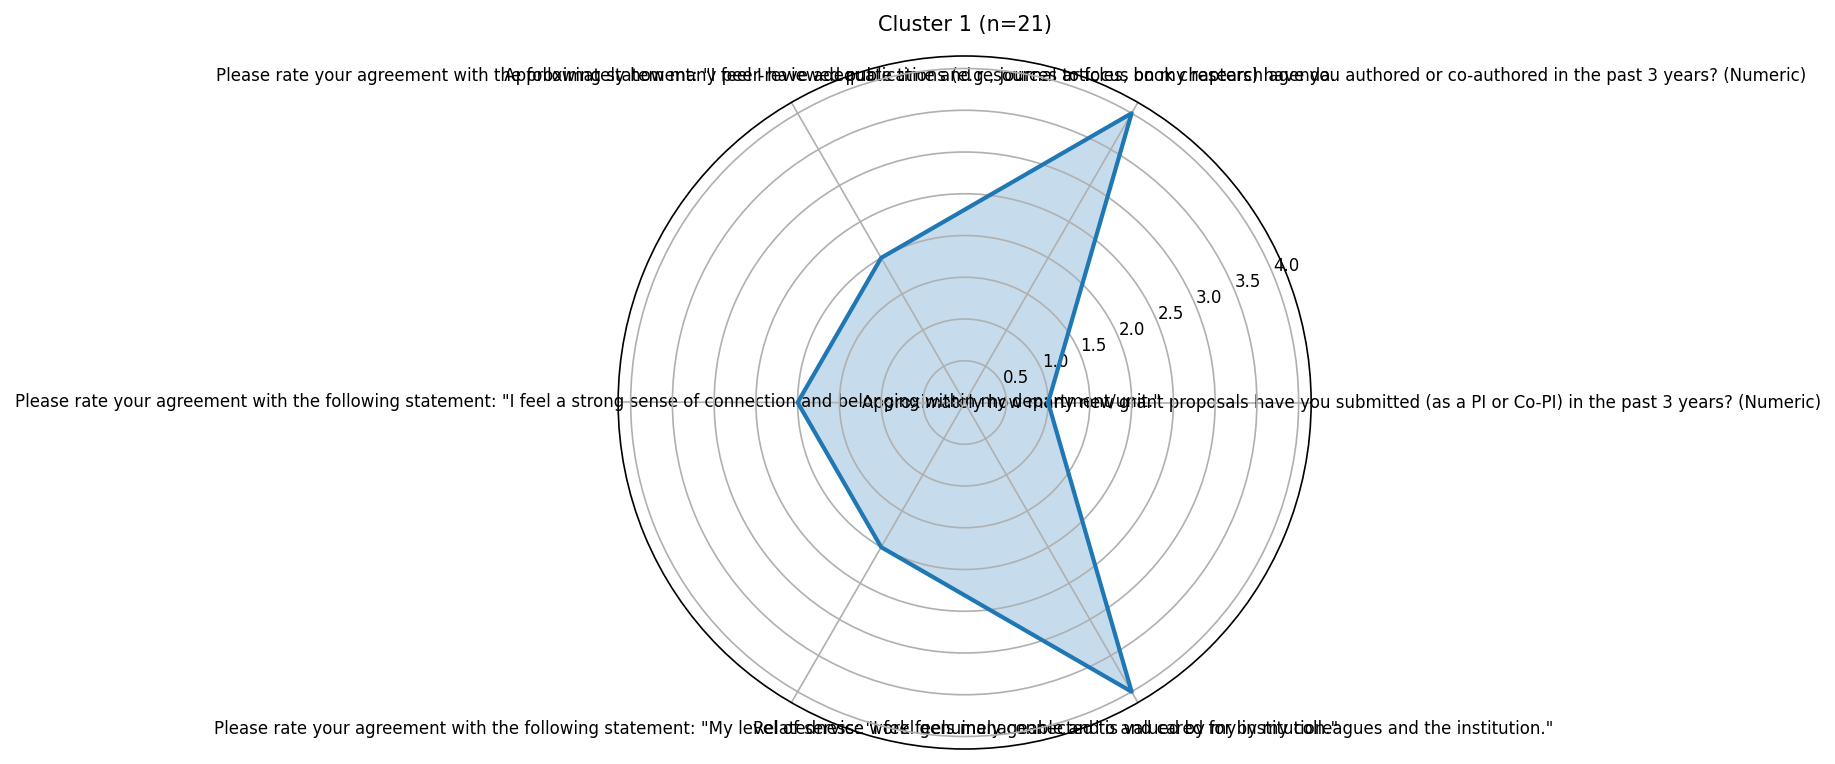
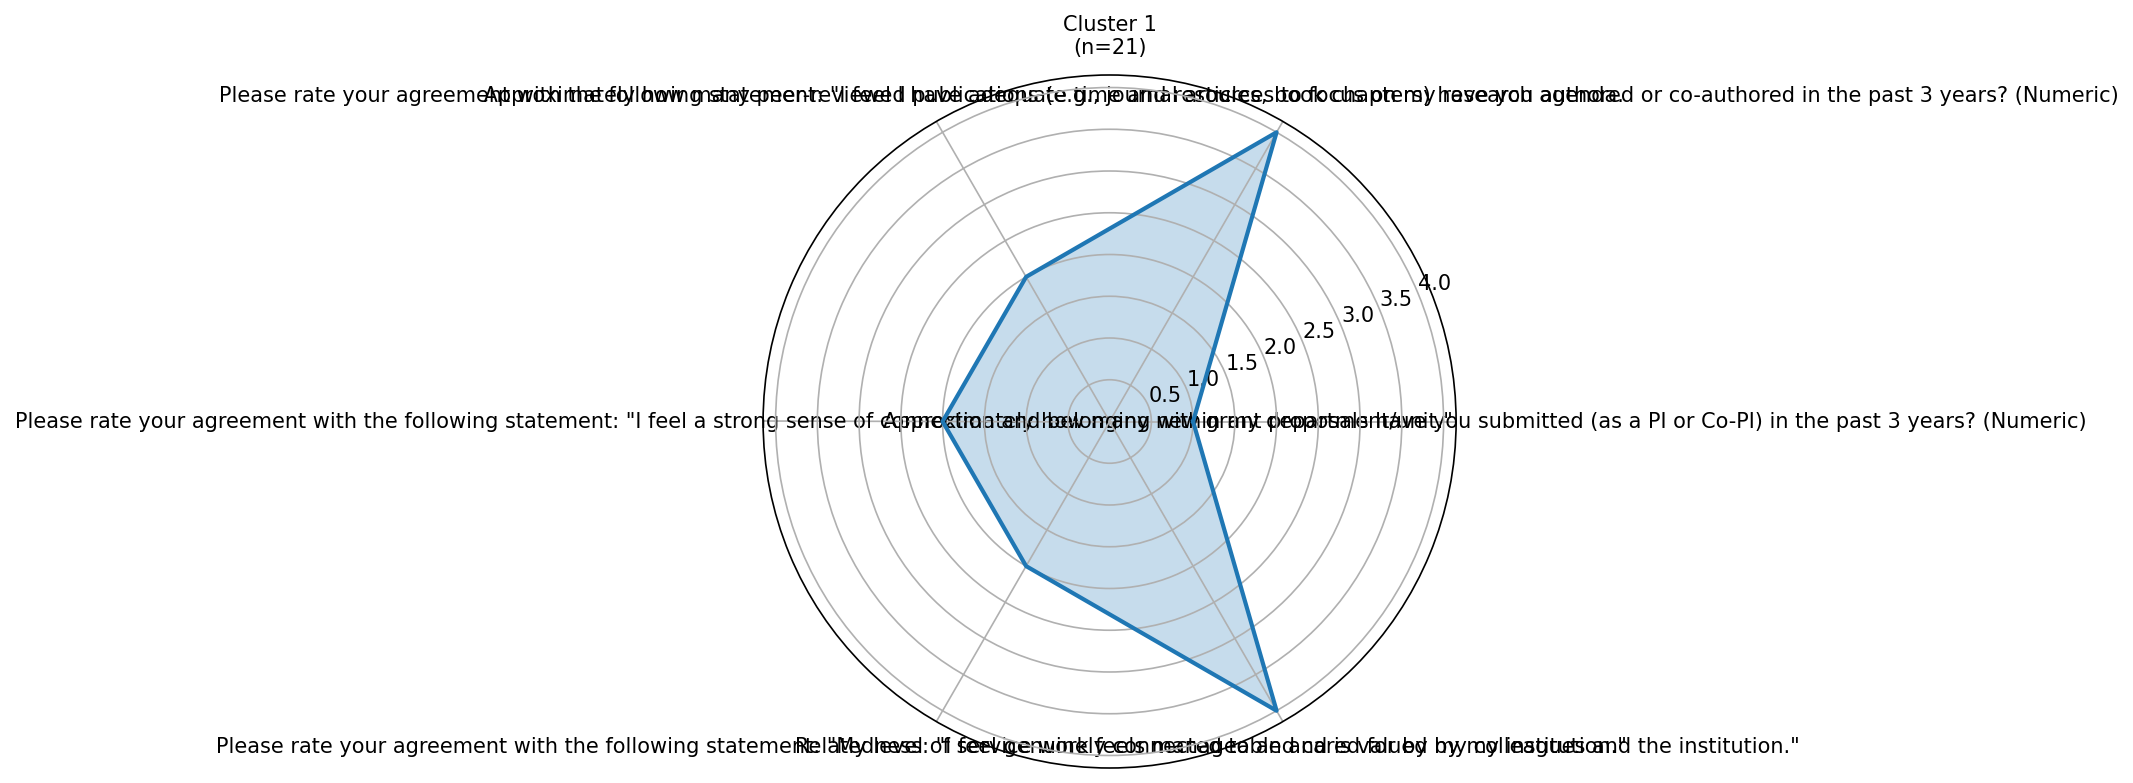
style(plot): compact two-line titles for radar plots

Changed region(s): [[0.0, 0.0, 0.994, 0.9935]]

diff --git a/scripts/quiet_quitting_clustering.py b/scripts/quiet_quitting_clustering.py
@@ -111,7 +111,7 @@ pd.DataFrame.from_dict(personas, orient='index').to_csv(os.path.join(outputs_dir
 variances = df_numeric.var().sort_values(ascending=False)
 top_features = variances.head(6).index.tolist()
 
-def make_radar(values, categories, title, outfile):
+def make_radar(values, categories, title):
     N = len(categories)
     angles = [n / float(N) * 2 * pi for n in range(N)]
     angles += angles[:1]
@@ -121,21 +121,15 @@ def make_radar(values, categories, title, outfile):
     ax = plt.subplot(111, polar=True)
     ax.set_xticks(angles[:-1])
     ax.set_xticklabels(categories)
-    # smaller labels for readability
-    ax.tick_params(axis='x', labelsize=8, pad=4)
-    ax.tick_params(axis='y', labelsize=8)
     ax.plot(angles, vals, linewidth=2)
     ax.fill(angles, vals, alpha=0.25)
-    ax.set_title(title, fontsize=10, pad=12)
-    plt.savefig(os.path.join(outputs_dir, outfile), dpi=150, bbox_inches="tight"); plt.show()
+    # compact, two-line title and smaller font for readability
+    compact_title = title.replace(" (n=", "\n(n=")
+    ax.set_title(compact_title, fontsize=10, pad=10)
+    plt.savefig(os.path.join(outputs_dir, f"radar_cluster_{title.split()[1]}.png"), dpi=150, bbox_inches="tight"); plt.show()
 
 for c in cluster_profiles.index:
-    make_radar(
-        cluster_profiles.loc[c, top_features],
-        top_features,
-        f"Cluster {c} (n={cluster_counts.loc[c]})",
-        f"radar_cluster_{c}.png"
-    )
+    make_radar(cluster_profiles.loc[c, top_features], top_features, f"Cluster {c} (n={cluster_counts.loc[c]})")
 
 # --- Heuristic risk scoring for quiet quitting ---
 # Identify columns with names matching engagement/protection vs burnout/risk
